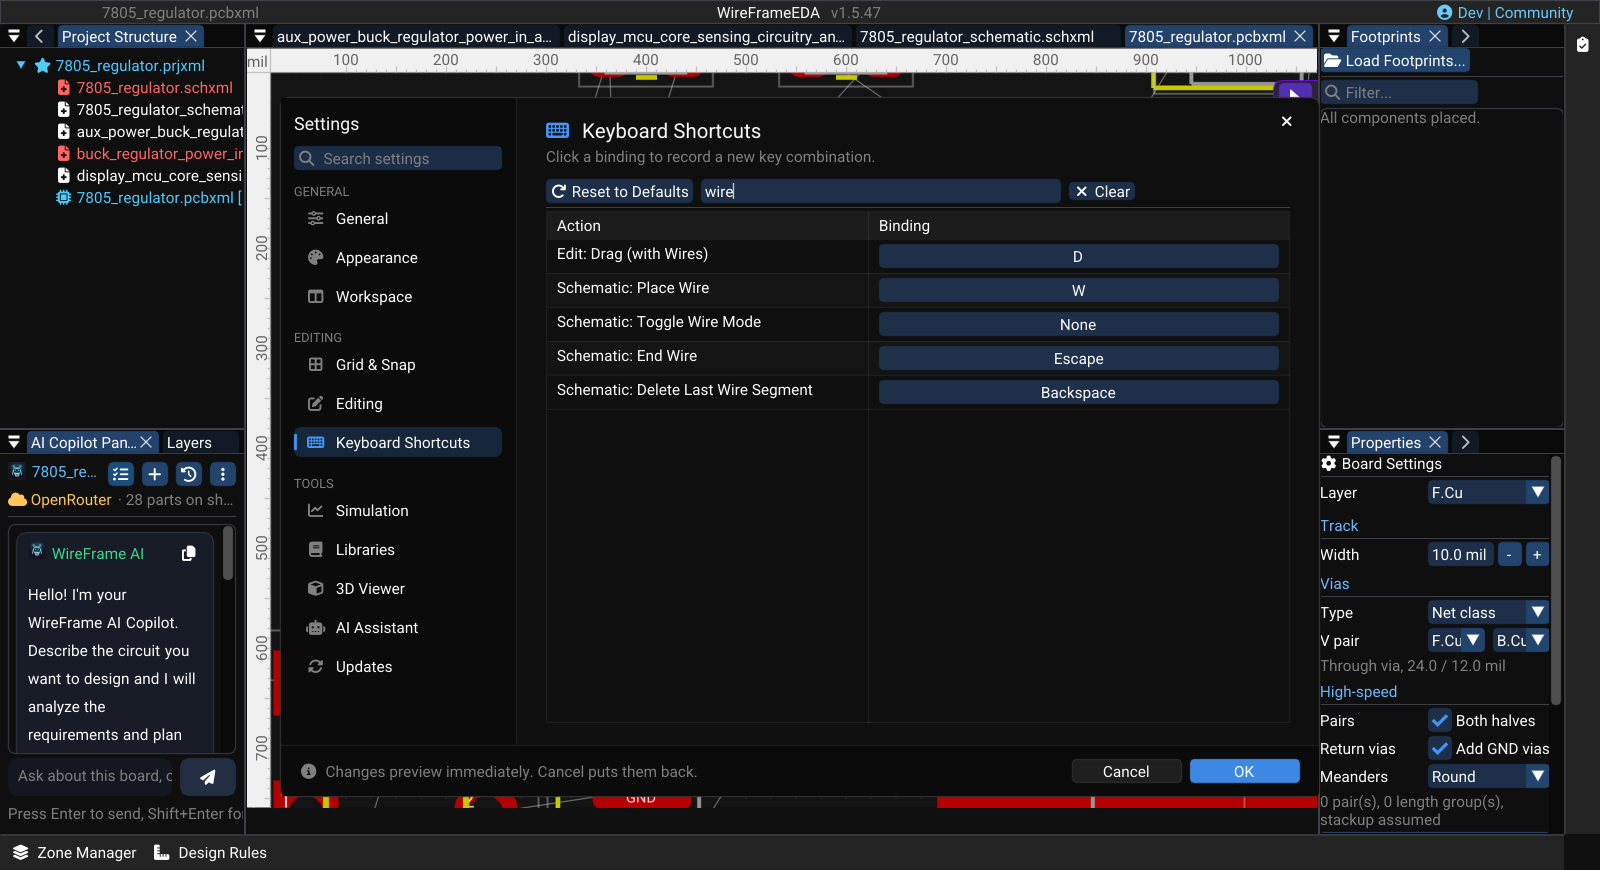
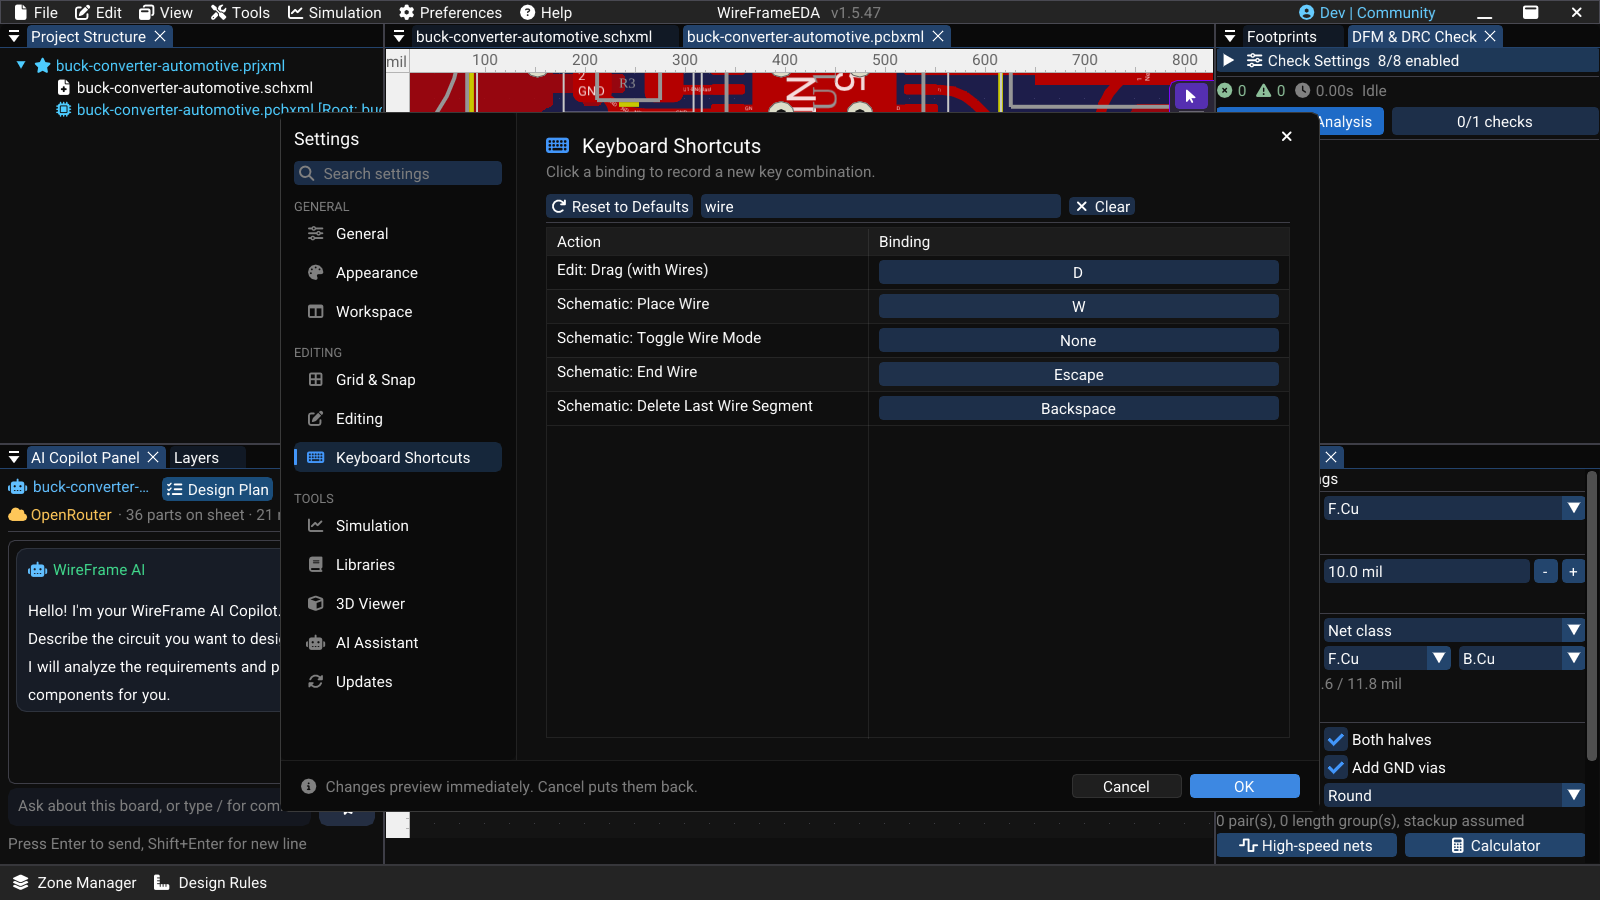
docs: shortcuts, project structure and preferences recaptured on real boards
Keyboard Shortcuts opens through open_dialog and filters by its own search
field; the multi-sheet project tree is the hexapod's (root + eight sheets).

Changed region(s): [[0.0, 0.0, 1.0, 0.9931], [0.5625, 0.4966, 1.0, 0.9621]]

diff --git a/docs/projects.md b/docs/projects.md
@@ -67,7 +67,9 @@ Opening a `.prjxml` restores its linked documents and project structure. Opening
     5. **Approve:** Check the image at 100% zoom for current labels, readable evidence, correct release branding, and absence of sensitive information.
 
 <!-- wf:shot id=project-structure-with-multiple-documents
-caption: Project Structure with several schematics and one PCB
+caption: 'Project Structure of the hexapod robot''s main board: the root sheet, eight sub-sheets and one
+  PCB'
+project: board:hexapod
 setup:
 - open_project
 - wait: 1
@@ -80,8 +82,8 @@ capture:
   padding: 8
 brief_sha256: 252fa9b96dbcf65e
 -->
-<!-- wf:out id=project-structure-with-multiple-documents sha=664f28041221 -->
-![Project Structure with several schematics and one PCB](assets/wf/docs/projects/project-structure-with-multiple-documents.png)
+<!-- wf:out id=project-structure-with-multiple-documents sha=fa75e73b67c3 -->
+![Project Structure of the hexapod robot's main board: the root sheet, eight sub-sheets and one PCB](assets/wf/docs/projects/project-structure-with-multiple-documents.png)
 <!-- /wf:out -->
 
 ## Add and organize documents

diff --git a/docs/advanced/shortcuts.md b/docs/advanced/shortcuts.md
@@ -36,18 +36,13 @@ caption: Preferences → Keyboard Shortcuts, filtered to “wire”
 setup:
 - open_project
 - wait: 1
-- menu:
-  - Preferences
-  - Preferences...
+- action:
+    action: open_dialog
+    dialog: preferences
+    page: Keyboard Shortcuts
 - wait: 1
-- click_at:
-  - 380
-  - 437
-- wait: 1
-- click_at:
-  - 780
-  - 190
 - type:
+    ref: '**/##KeyMapSearch'
     text: wire
 - wait: 1
 - action:
@@ -56,7 +51,7 @@ setup:
     y: 12
 brief_sha256: ebfd641c410ab5d3
 -->
-<!-- wf:out id=keyboard-shortcuts-page sha=63d2c3a35b0b -->
+<!-- wf:out id=keyboard-shortcuts-page sha=422b9b978bac -->
 ![Preferences → Keyboard Shortcuts, filtered to “wire”](../assets/wf/docs/advanced/shortcuts/keyboard-shortcuts-page.png)
 <!-- /wf:out -->
 

diff --git a/docs/reference/config-and-session.md b/docs/reference/config-and-session.md
@@ -99,7 +99,7 @@ setup:
     y: 12
 brief_sha256: be232845023a8ed3
 -->
-<!-- wf:out id=preferences-categories sha=265c4e3e38f0 -->
+<!-- wf:out id=preferences-categories sha=6187da44ad80 -->
 ![Preferences with its category list](../assets/wf/docs/reference/config-and-session/preferences-categories.png)
 <!-- /wf:out -->
 
